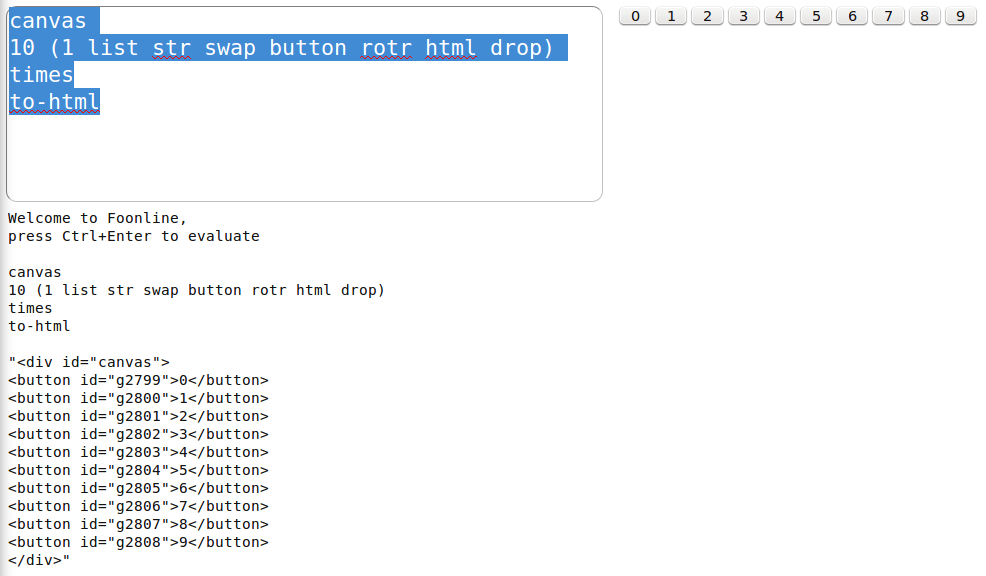
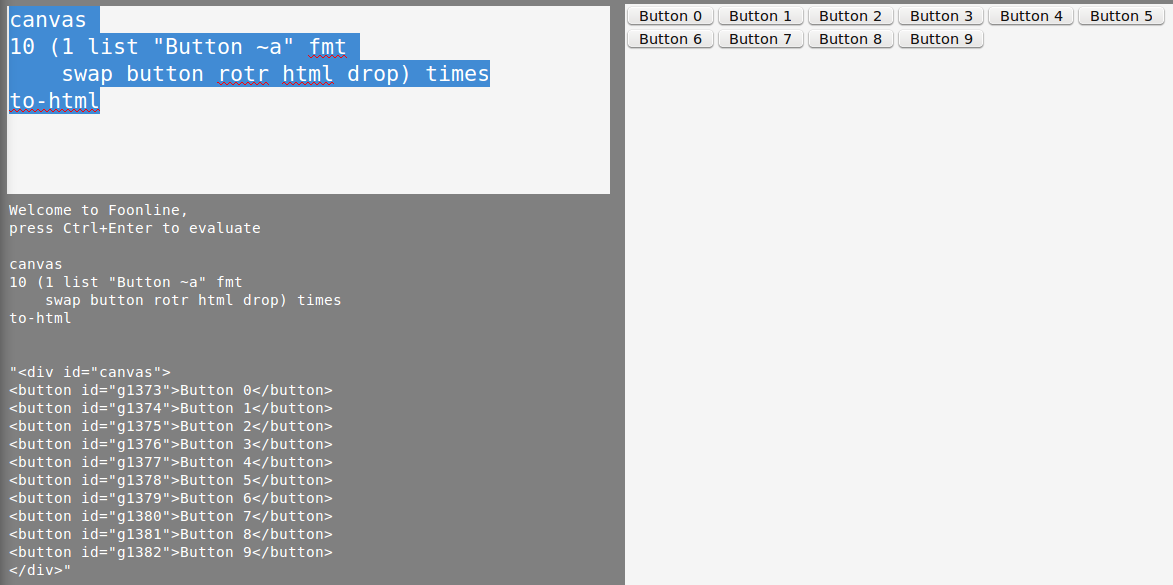
styling

diff --git a/www/foonline.css b/www/foonline.css
@@ -1,22 +1,21 @@
 body {
+    background-color: gray;
     padding: 1%;
 }
 
 #canvas {
+    background-color: whitesmoke;
     border: none;
     display: inline-block;
     height:96vh;
     overflow: scroll;
-    width: 49%;
+    width: 49.5%;
 }
 
 #input {
-    border: 1px solid;
-    border-top-color: gray;
-    border-left-color: gray;
-    border-bottom-color: silver;
-    border-right-color: silver;
-    border-radius: 0.5em;
+    background: whitesmoke;
+    border: none;
+    color: dimgray;
     font: monospace;
     font-size: 150%;
     height: 29%;
@@ -26,7 +25,9 @@ body {
 }
 
 #output {
-    border: none;    
+    background-color: gray;
+    border: none;
+    color: white;
     font: monospace;
     height: 70%;
     resize: none;
@@ -34,9 +35,10 @@ body {
 }
 
 #repl {
+    border: none;
     display: inline-block;
     height: 96vh;
     margin-right: 1%;
-    width: 49%;
     vertical-align: top;
+    width: 49%;
 }
